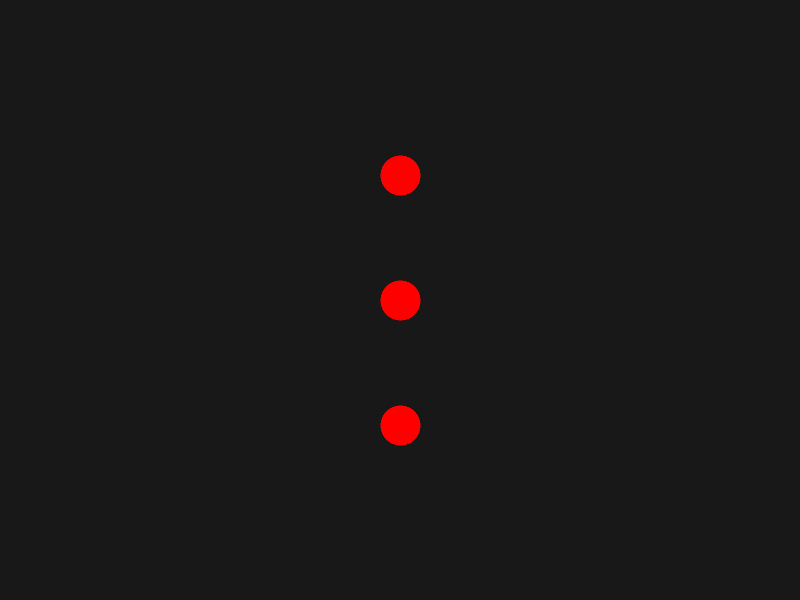
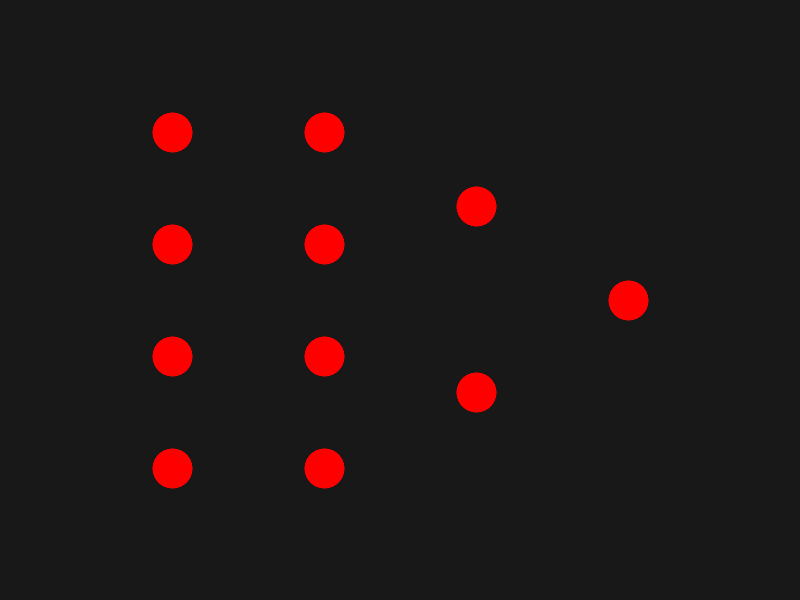
draw all layers

diff --git a/dump_nn.c b/dump_nn.c
@@ -12,8 +12,9 @@ uint32_t img_pixels[IMG_HEIGHT * IMG_WIDTH];
 
 int main(void)
 {
-    size_t arch[] = {3, 2, 1};
-    NN nn = nn_alloc(arch, ARRAY_LEN(arch));
+    size_t arch[] = {4, 4, 2, 1};
+    int arch_count = ARRAY_LEN(arch);
+    NN nn = nn_alloc(arch, arch_count);
     nn_rand(nn, -1, 1);
 
     NN_PRINT(nn);
@@ -24,19 +25,27 @@ int main(void)
 
     olivec_fill(img, background_color);
 
-    int layer_count = arch[0];
-    int neuron_radius = 20;
-    int layer_border_pad = 50;
-
-    int layer_height = img.height - 2 * layer_border_pad;
-    int layer_vpad = layer_height / (layer_count + 1);
-    int layer_x = img.width / 2;
-    int layer_y = img.height / 2 - layer_height / 2;
-    for (size_t i = 0; i < layer_count; i++)
+    for (size_t j = 0; j < arch_count; j++)
     {
-        int cx = layer_x;
-        int cy = layer_y + (i + 1) * layer_vpad;
-        olivec_circle(img, cx, cy, neuron_radius, neuron_color);
+        int layer_count = arch[j];
+        int neuron_radius = 20;
+        int layer_border_pad = 20;
+
+        int layer_height = img.height - 2 * layer_border_pad;
+        int nn_width = img.width - 2 * layer_border_pad;
+
+        int layer_vpad = layer_height / (layer_count + 1);
+        int layer_hpad = nn_width / (arch_count + 1);
+
+        int layer_x = img.width / 2 - nn_width / 2;
+        int layer_y = img.height / 2 - layer_height / 2;
+
+        for (size_t i = 0; i < layer_count; i++)
+        {
+            int cx = layer_x + (j + 1) * layer_hpad;
+            int cy = layer_y + (i + 1) * layer_vpad;
+            olivec_circle(img, cx, cy, neuron_radius, neuron_color);
+        }
     }
 
     const char *img_file_path = "nn.png";
